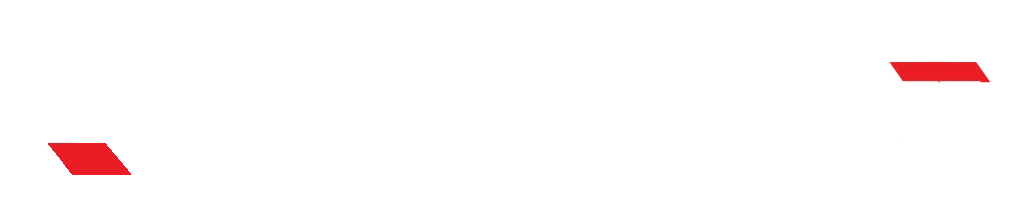
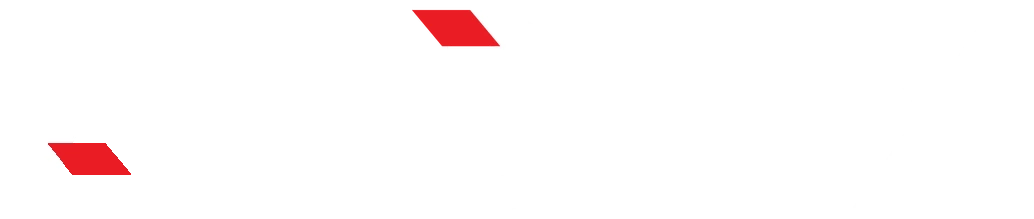
ALUPROF: ALDOX — красная вставка на D вместо X
Claude-Session: https://claude.ai/code/session_01Da8nQYMpYeLq4XFoui4s6z

Changed region(s): [[0.4023, 0.0274, 0.4952, 0.2192], [0.8356, 0.274, 0.9594, 0.3836]]

diff --git a/aluprof/systems.html b/aluprof/systems.html
@@ -19,7 +19,7 @@
 <link rel="apple-touch-icon" href="assets/img/apple-touch-icon.png">
 <link rel="preload" as="image" href="assets/img/sys-hero.webp?v=25" fetchpriority="high">
 <link rel="preload" as="font" type="font/woff" href="assets/fonts/InterDisplay-Medium.woff" crossorigin>
-<link rel="stylesheet" href="assets/css/styles.css?v=44">
+<link rel="stylesheet" href="assets/css/styles.css?v=45">
 </head>
 <body class="is-loading page-systems">
 
@@ -113,7 +113,7 @@
       </article>
       <article class="pdir pdir--aldox" data-reveal style="--d:.1s">
         <div class="pdir__body">
-          <img class="pdir__wm" src="assets/img/brand-aldox.webp" alt="ALDOX" width="1034" height="219" loading="lazy" decoding="async">
+          <img class="pdir__wm" src="assets/img/brand-aldox.webp?v=2" alt="ALDOX" width="1034" height="219" loading="lazy" decoding="async">
           <p>Алюминиевые профили без терморазрыва для витрин, перегородок, балконов и дверей.</p>
         </div>
         <div class="pdir__img"><img src="assets/img/t-windows.webp" alt="Алюминиевые конструкции, архитектурная визуализация" loading="lazy" decoding="async"><span class="vis-tag">Визуализация</span></div>
@@ -157,7 +157,7 @@
       <article class="choose__item" data-reveal style="--d:.16s">
         <div class="choose__n">03</div>
         <h3>Витрины, перегородки и холодные конструкции</h3>
-        <div class="choose__sys"><img class="choose__aldox" src="assets/img/brand-aldox-light.webp" alt="ALDOX" width="1034" height="219" loading="lazy" decoding="async"><span>без терморазрыва</span></div>
+        <div class="choose__sys"><img class="choose__aldox" src="assets/img/brand-aldox-light.webp?v=2" alt="ALDOX" width="1034" height="219" loading="lazy" decoding="async"><span>без терморазрыва</span></div>
         <p>Для витрин, перегородок, балконов, дверей и неотапливаемых помещений.</p>
         <div class="choose__act"><a class="btn btn--navy btn--sm" href="#aldox">Подробнее <svg class="btn__ico" viewBox="0 0 18 18" fill="none" stroke="currentColor" stroke-width="1.5"><path d="M2 9h13M10 4l5 5-5 5"/></svg></a><a class="btn btn--soft btn--sm" href="#contacts" data-msg="Интересует: витрины, перегородки и холодные конструкции, ALDOX">Оставить заявку</a></div>
       </article>
@@ -262,7 +262,7 @@
     <div class="aldox">
       <div class="aldox__body" data-reveal>
         <div class="eyebrow"><i class="para"></i>Направление 02 · профили без терморазрыва</div>
-        <img class="aldox__wm" src="assets/img/brand-aldox.webp" alt="ALDOX" width="1034" height="219" loading="lazy" decoding="async">
+        <img class="aldox__wm" src="assets/img/brand-aldox.webp?v=2" alt="ALDOX" width="1034" height="219" loading="lazy" decoding="async">
         <p class="aldox__lead">Алюминиевые профили без терморазрыва для витрин, перегородок, балконов, дверей и других холодных конструкций.</p>
         <ul class="aldox__chips"><li>Витрины</li><li>Перегородки</li><li>Балконы</li><li>Двери</li><li>Неотапливаемые помещения</li></ul>
         <dl class="ds__spec aldox__spec">
@@ -352,8 +352,8 @@
   </div>
 </footer>
 
-<script src="assets/js/profile3d.js?v=44"></script>
-<script src="assets/js/main.js?v=44"></script>
-<script src="assets/js/extras.js?v=44"></script>
+<script src="assets/js/profile3d.js?v=45"></script>
+<script src="assets/js/main.js?v=45"></script>
+<script src="assets/js/extras.js?v=45"></script>
 </body>
 </html>

diff --git a/aluprof/uz/systems.html b/aluprof/uz/systems.html
@@ -19,7 +19,7 @@
 <link rel="apple-touch-icon" href="../assets/img/apple-touch-icon.png">
 <link rel="preload" as="image" href="../assets/img/sys-hero.webp?v=25" fetchpriority="high">
 <link rel="preload" as="font" type="font/woff" href="../assets/fonts/InterDisplay-Medium.woff" crossorigin>
-<link rel="stylesheet" href="../assets/css/styles.css?v=44">
+<link rel="stylesheet" href="../assets/css/styles.css?v=45">
 </head>
 <body class="is-loading page-systems">
 
@@ -113,7 +113,7 @@
       </article>
       <article class="pdir pdir--aldox" data-reveal style="--d:.1s">
         <div class="pdir__body">
-          <img class="pdir__wm" src="../assets/img/brand-aldox.webp" alt="ALDOX" width="1034" height="219" loading="lazy" decoding="async">
+          <img class="pdir__wm" src="../assets/img/brand-aldox.webp?v=2" alt="ALDOX" width="1034" height="219" loading="lazy" decoding="async">
           <p>Vitrinalar, toʻsiqlar, balkonlar va eshiklar uchun termouzilishsiz alyuminiy profillar.</p>
         </div>
         <div class="pdir__img"><img src="../assets/img/t-windows.webp" alt="Alyuminiy konstruksiyalar, arxitektura vizualizatsiyasi" loading="lazy" decoding="async"><span class="vis-tag">Vizualizatsiya</span></div>
@@ -157,7 +157,7 @@
       <article class="choose__item" data-reveal style="--d:.16s">
         <div class="choose__n">03</div>
         <h3>Vitrinalar, toʻsiqlar va sovuq konstruksiyalar</h3>
-        <div class="choose__sys"><img class="choose__aldox" src="../assets/img/brand-aldox-light.webp" alt="ALDOX" width="1034" height="219" loading="lazy" decoding="async"><span>termouzilishsiz</span></div>
+        <div class="choose__sys"><img class="choose__aldox" src="../assets/img/brand-aldox-light.webp?v=2" alt="ALDOX" width="1034" height="219" loading="lazy" decoding="async"><span>termouzilishsiz</span></div>
         <p>Vitrinalar, toʻsiqlar, balkonlar, eshiklar va isitilmaydigan xonalar uchun.</p>
         <div class="choose__act"><a class="btn btn--navy btn--sm" href="#aldox">Batafsil <svg class="btn__ico" viewBox="0 0 18 18" fill="none" stroke="currentColor" stroke-width="1.5"><path d="M2 9h13M10 4l5 5-5 5"/></svg></a><a class="btn btn--soft btn--sm" href="#contacts" data-msg="Qiziqtiradi: vitrinalar, toʻsiqlar va sovuq konstruksiyalar, ALDOX">Ariza qoldirish</a></div>
       </article>
@@ -262,7 +262,7 @@
     <div class="aldox">
       <div class="aldox__body" data-reveal>
         <div class="eyebrow"><i class="para"></i>02-yoʻnalish · termouzilishsiz profillar</div>
-        <img class="aldox__wm" src="../assets/img/brand-aldox.webp" alt="ALDOX" width="1034" height="219" loading="lazy" decoding="async">
+        <img class="aldox__wm" src="../assets/img/brand-aldox.webp?v=2" alt="ALDOX" width="1034" height="219" loading="lazy" decoding="async">
         <p class="aldox__lead">Vitrinalar, toʻsiqlar, balkonlar, eshiklar va boshqa sovuq konstruksiyalar uchun termouzilishsiz alyuminiy profillar.</p>
         <ul class="aldox__chips"><li>Vitrinalar</li><li>Toʻsiqlar</li><li>Balkonlar</li><li>Eshiklar</li><li>Isitilmaydigan xonalar</li></ul>
         <dl class="ds__spec aldox__spec">
@@ -352,8 +352,8 @@
   </div>
 </footer>
 
-<script src="../assets/js/profile3d.js?v=44"></script>
-<script src="../assets/js/main.js?v=44"></script>
-<script src="../assets/js/extras.js?v=44"></script>
+<script src="../assets/js/profile3d.js?v=45"></script>
+<script src="../assets/js/main.js?v=45"></script>
+<script src="../assets/js/extras.js?v=45"></script>
 </body>
 </html>

diff --git a/aluprof/en/systems.html b/aluprof/en/systems.html
@@ -19,7 +19,7 @@
 <link rel="apple-touch-icon" href="../assets/img/apple-touch-icon.png">
 <link rel="preload" as="image" href="../assets/img/sys-hero.webp?v=25" fetchpriority="high">
 <link rel="preload" as="font" type="font/woff" href="../assets/fonts/InterDisplay-Medium.woff" crossorigin>
-<link rel="stylesheet" href="../assets/css/styles.css?v=44">
+<link rel="stylesheet" href="../assets/css/styles.css?v=45">
 </head>
 <body class="is-loading page-systems">
 
@@ -113,7 +113,7 @@
       </article>
       <article class="pdir pdir--aldox" data-reveal style="--d:.1s">
         <div class="pdir__body">
-          <img class="pdir__wm" src="../assets/img/brand-aldox.webp" alt="ALDOX" width="1034" height="219" loading="lazy" decoding="async">
+          <img class="pdir__wm" src="../assets/img/brand-aldox.webp?v=2" alt="ALDOX" width="1034" height="219" loading="lazy" decoding="async">
           <p>Aluminium profiles without a thermal break for shopfronts, partitions, balconies and doors.</p>
         </div>
         <div class="pdir__img"><img src="../assets/img/t-windows.webp" alt="Aluminium structures, architectural visualisation" loading="lazy" decoding="async"><span class="vis-tag">Visualisation</span></div>
@@ -157,7 +157,7 @@
       <article class="choose__item" data-reveal style="--d:.16s">
         <div class="choose__n">03</div>
         <h3>Shopfronts, partitions and non-insulated structures</h3>
-        <div class="choose__sys"><img class="choose__aldox" src="../assets/img/brand-aldox-light.webp" alt="ALDOX" width="1034" height="219" loading="lazy" decoding="async"><span>no thermal break</span></div>
+        <div class="choose__sys"><img class="choose__aldox" src="../assets/img/brand-aldox-light.webp?v=2" alt="ALDOX" width="1034" height="219" loading="lazy" decoding="async"><span>no thermal break</span></div>
         <p>For shopfronts, partitions, balconies, doors and unheated spaces.</p>
         <div class="choose__act"><a class="btn btn--navy btn--sm" href="#aldox">Learn more <svg class="btn__ico" viewBox="0 0 18 18" fill="none" stroke="currentColor" stroke-width="1.5"><path d="M2 9h13M10 4l5 5-5 5"/></svg></a><a class="btn btn--soft btn--sm" href="#contacts" data-msg="Interested in: shopfronts, partitions and non-insulated structures, ALDOX">Leave a request</a></div>
       </article>
@@ -262,7 +262,7 @@
     <div class="aldox">
       <div class="aldox__body" data-reveal>
         <div class="eyebrow"><i class="para"></i>Line 02 · profiles without a thermal break</div>
-        <img class="aldox__wm" src="../assets/img/brand-aldox.webp" alt="ALDOX" width="1034" height="219" loading="lazy" decoding="async">
+        <img class="aldox__wm" src="../assets/img/brand-aldox.webp?v=2" alt="ALDOX" width="1034" height="219" loading="lazy" decoding="async">
         <p class="aldox__lead">Aluminium profiles without a thermal break for shopfronts, partitions, balconies, doors and other non-insulated structures.</p>
         <ul class="aldox__chips"><li>Shopfronts</li><li>Partitions</li><li>Balconies</li><li>Doors</li><li>Unheated spaces</li></ul>
         <dl class="ds__spec aldox__spec">
@@ -352,8 +352,8 @@
   </div>
 </footer>
 
-<script src="../assets/js/profile3d.js?v=44"></script>
-<script src="../assets/js/main.js?v=44"></script>
-<script src="../assets/js/extras.js?v=44"></script>
+<script src="../assets/js/profile3d.js?v=45"></script>
+<script src="../assets/js/main.js?v=45"></script>
+<script src="../assets/js/extras.js?v=45"></script>
 </body>
 </html>

diff --git a/aluprof/index.html b/aluprof/index.html
@@ -19,7 +19,7 @@
 <link rel="apple-touch-icon" href="assets/img/apple-touch-icon.png">
 <link rel="preload" as="image" href="assets/img/building-night.webp" fetchpriority="high">
 <link rel="preload" as="font" type="font/woff" href="assets/fonts/InterDisplay-Medium.woff" crossorigin>
-<link rel="stylesheet" href="assets/css/styles.css?v=44">
+<link rel="stylesheet" href="assets/css/styles.css?v=45">
 </head>
 <body class="is-loading">
 
@@ -149,7 +149,7 @@
       </article>
       <article class="pdir pdir--aldox" data-reveal style="--d:.1s">
         <div class="pdir__body">
-          <img class="pdir__wm" src="assets/img/brand-aldox.webp" alt="ALDOX" width="1034" height="219" loading="lazy" decoding="async">
+          <img class="pdir__wm" src="assets/img/brand-aldox.webp?v=2" alt="ALDOX" width="1034" height="219" loading="lazy" decoding="async">
           <p>Алюминиевые профили без терморазрыва для витрин, перегородок, балконов и дверей.</p>
         </div>
         <div class="pdir__img"><img src="assets/img/aud-makers.webp" alt="Алюминиевые конструкции, архитектурная визуализация" loading="lazy" decoding="async"><span class="vis-tag">Визуализация</span></div>
@@ -448,8 +448,8 @@
   </div>
 </footer>
 
-<script src="assets/js/profile3d.js?v=44"></script>
-<script src="assets/js/main.js?v=44"></script>
-<script src="assets/js/extras.js?v=44"></script>
+<script src="assets/js/profile3d.js?v=45"></script>
+<script src="assets/js/main.js?v=45"></script>
+<script src="assets/js/extras.js?v=45"></script>
 </body>
 </html>

diff --git a/aluprof/uz/index.html b/aluprof/uz/index.html
@@ -19,7 +19,7 @@
 <link rel="apple-touch-icon" href="../assets/img/apple-touch-icon.png">
 <link rel="preload" as="image" href="../assets/img/building-night.webp" fetchpriority="high">
 <link rel="preload" as="font" type="font/woff" href="../assets/fonts/InterDisplay-Medium.woff" crossorigin>
-<link rel="stylesheet" href="../assets/css/styles.css?v=44">
+<link rel="stylesheet" href="../assets/css/styles.css?v=45">
 </head>
 <body class="is-loading">
 
@@ -149,7 +149,7 @@
       </article>
       <article class="pdir pdir--aldox" data-reveal style="--d:.1s">
         <div class="pdir__body">
-          <img class="pdir__wm" src="../assets/img/brand-aldox.webp" alt="ALDOX" width="1034" height="219" loading="lazy" decoding="async">
+          <img class="pdir__wm" src="../assets/img/brand-aldox.webp?v=2" alt="ALDOX" width="1034" height="219" loading="lazy" decoding="async">
           <p>Vitrinalar, toʻsiqlar, balkonlar va eshiklar uchun termouzilishsiz alyuminiy profillar.</p>
         </div>
         <div class="pdir__img"><img src="../assets/img/aud-makers.webp" alt="Alyuminiy konstruksiyalar, arxitektura vizualizatsiyasi" loading="lazy" decoding="async"><span class="vis-tag">Vizualizatsiya</span></div>
@@ -448,8 +448,8 @@
   </div>
 </footer>
 
-<script src="../assets/js/profile3d.js?v=44"></script>
-<script src="../assets/js/main.js?v=44"></script>
-<script src="../assets/js/extras.js?v=44"></script>
+<script src="../assets/js/profile3d.js?v=45"></script>
+<script src="../assets/js/main.js?v=45"></script>
+<script src="../assets/js/extras.js?v=45"></script>
 </body>
 </html>

diff --git a/aluprof/en/index.html b/aluprof/en/index.html
@@ -19,7 +19,7 @@
 <link rel="apple-touch-icon" href="../assets/img/apple-touch-icon.png">
 <link rel="preload" as="image" href="../assets/img/building-night.webp" fetchpriority="high">
 <link rel="preload" as="font" type="font/woff" href="../assets/fonts/InterDisplay-Medium.woff" crossorigin>
-<link rel="stylesheet" href="../assets/css/styles.css?v=44">
+<link rel="stylesheet" href="../assets/css/styles.css?v=45">
 </head>
 <body class="is-loading">
 
@@ -149,7 +149,7 @@
       </article>
       <article class="pdir pdir--aldox" data-reveal style="--d:.1s">
         <div class="pdir__body">
-          <img class="pdir__wm" src="../assets/img/brand-aldox.webp" alt="ALDOX" width="1034" height="219" loading="lazy" decoding="async">
+          <img class="pdir__wm" src="../assets/img/brand-aldox.webp?v=2" alt="ALDOX" width="1034" height="219" loading="lazy" decoding="async">
           <p>Aluminium profiles without a thermal break for shopfronts, partitions, balconies and doors.</p>
         </div>
         <div class="pdir__img"><img src="../assets/img/aud-makers.webp" alt="Aluminium structures, architectural visualisation" loading="lazy" decoding="async"><span class="vis-tag">Visualisation</span></div>
@@ -448,8 +448,8 @@
   </div>
 </footer>
 
-<script src="../assets/js/profile3d.js?v=44"></script>
-<script src="../assets/js/main.js?v=44"></script>
-<script src="../assets/js/extras.js?v=44"></script>
+<script src="../assets/js/profile3d.js?v=45"></script>
+<script src="../assets/js/main.js?v=45"></script>
+<script src="../assets/js/extras.js?v=45"></script>
 </body>
 </html>

diff --git a/aluprof/en/about.html b/aluprof/en/about.html
@@ -19,7 +19,7 @@
 <link rel="apple-touch-icon" href="../assets/img/apple-touch-icon.png">
 <link rel="preload" as="image" href="../assets/img/about-hero.webp?v=31" fetchpriority="high">
 <link rel="preload" as="font" type="font/woff" href="../assets/fonts/InterDisplay-Medium.woff" crossorigin>
-<link rel="stylesheet" href="../assets/css/styles.css?v=44">
+<link rel="stylesheet" href="../assets/css/styles.css?v=45">
 </head>
 <body class="is-loading page-about">
 
@@ -258,8 +258,8 @@
   </div>
 </footer>
 
-<script src="../assets/js/profile3d.js?v=44"></script>
-<script src="../assets/js/main.js?v=44"></script>
-<script src="../assets/js/extras.js?v=44"></script>
+<script src="../assets/js/profile3d.js?v=45"></script>
+<script src="../assets/js/main.js?v=45"></script>
+<script src="../assets/js/extras.js?v=45"></script>
 </body>
 </html>

diff --git a/aluprof/uz/about.html b/aluprof/uz/about.html
@@ -19,7 +19,7 @@
 <link rel="apple-touch-icon" href="../assets/img/apple-touch-icon.png">
 <link rel="preload" as="image" href="../assets/img/about-hero.webp?v=31" fetchpriority="high">
 <link rel="preload" as="font" type="font/woff" href="../assets/fonts/InterDisplay-Medium.woff" crossorigin>
-<link rel="stylesheet" href="../assets/css/styles.css?v=44">
+<link rel="stylesheet" href="../assets/css/styles.css?v=45">
 </head>
 <body class="is-loading page-about">
 
@@ -258,8 +258,8 @@
   </div>
 </footer>
 
-<script src="../assets/js/profile3d.js?v=44"></script>
-<script src="../assets/js/main.js?v=44"></script>
-<script src="../assets/js/extras.js?v=44"></script>
+<script src="../assets/js/profile3d.js?v=45"></script>
+<script src="../assets/js/main.js?v=45"></script>
+<script src="../assets/js/extras.js?v=45"></script>
 </body>
 </html>

diff --git a/aluprof/about.html b/aluprof/about.html
@@ -19,7 +19,7 @@
 <link rel="apple-touch-icon" href="assets/img/apple-touch-icon.png">
 <link rel="preload" as="image" href="assets/img/about-hero.webp?v=31" fetchpriority="high">
 <link rel="preload" as="font" type="font/woff" href="assets/fonts/InterDisplay-Medium.woff" crossorigin>
-<link rel="stylesheet" href="assets/css/styles.css?v=44">
+<link rel="stylesheet" href="assets/css/styles.css?v=45">
 </head>
 <body class="is-loading page-about">
 
@@ -258,8 +258,8 @@
   </div>
 </footer>
 
-<script src="assets/js/profile3d.js?v=44"></script>
-<script src="assets/js/main.js?v=44"></script>
-<script src="assets/js/extras.js?v=44"></script>
+<script src="assets/js/profile3d.js?v=45"></script>
+<script src="assets/js/main.js?v=45"></script>
+<script src="assets/js/extras.js?v=45"></script>
 </body>
 </html>
